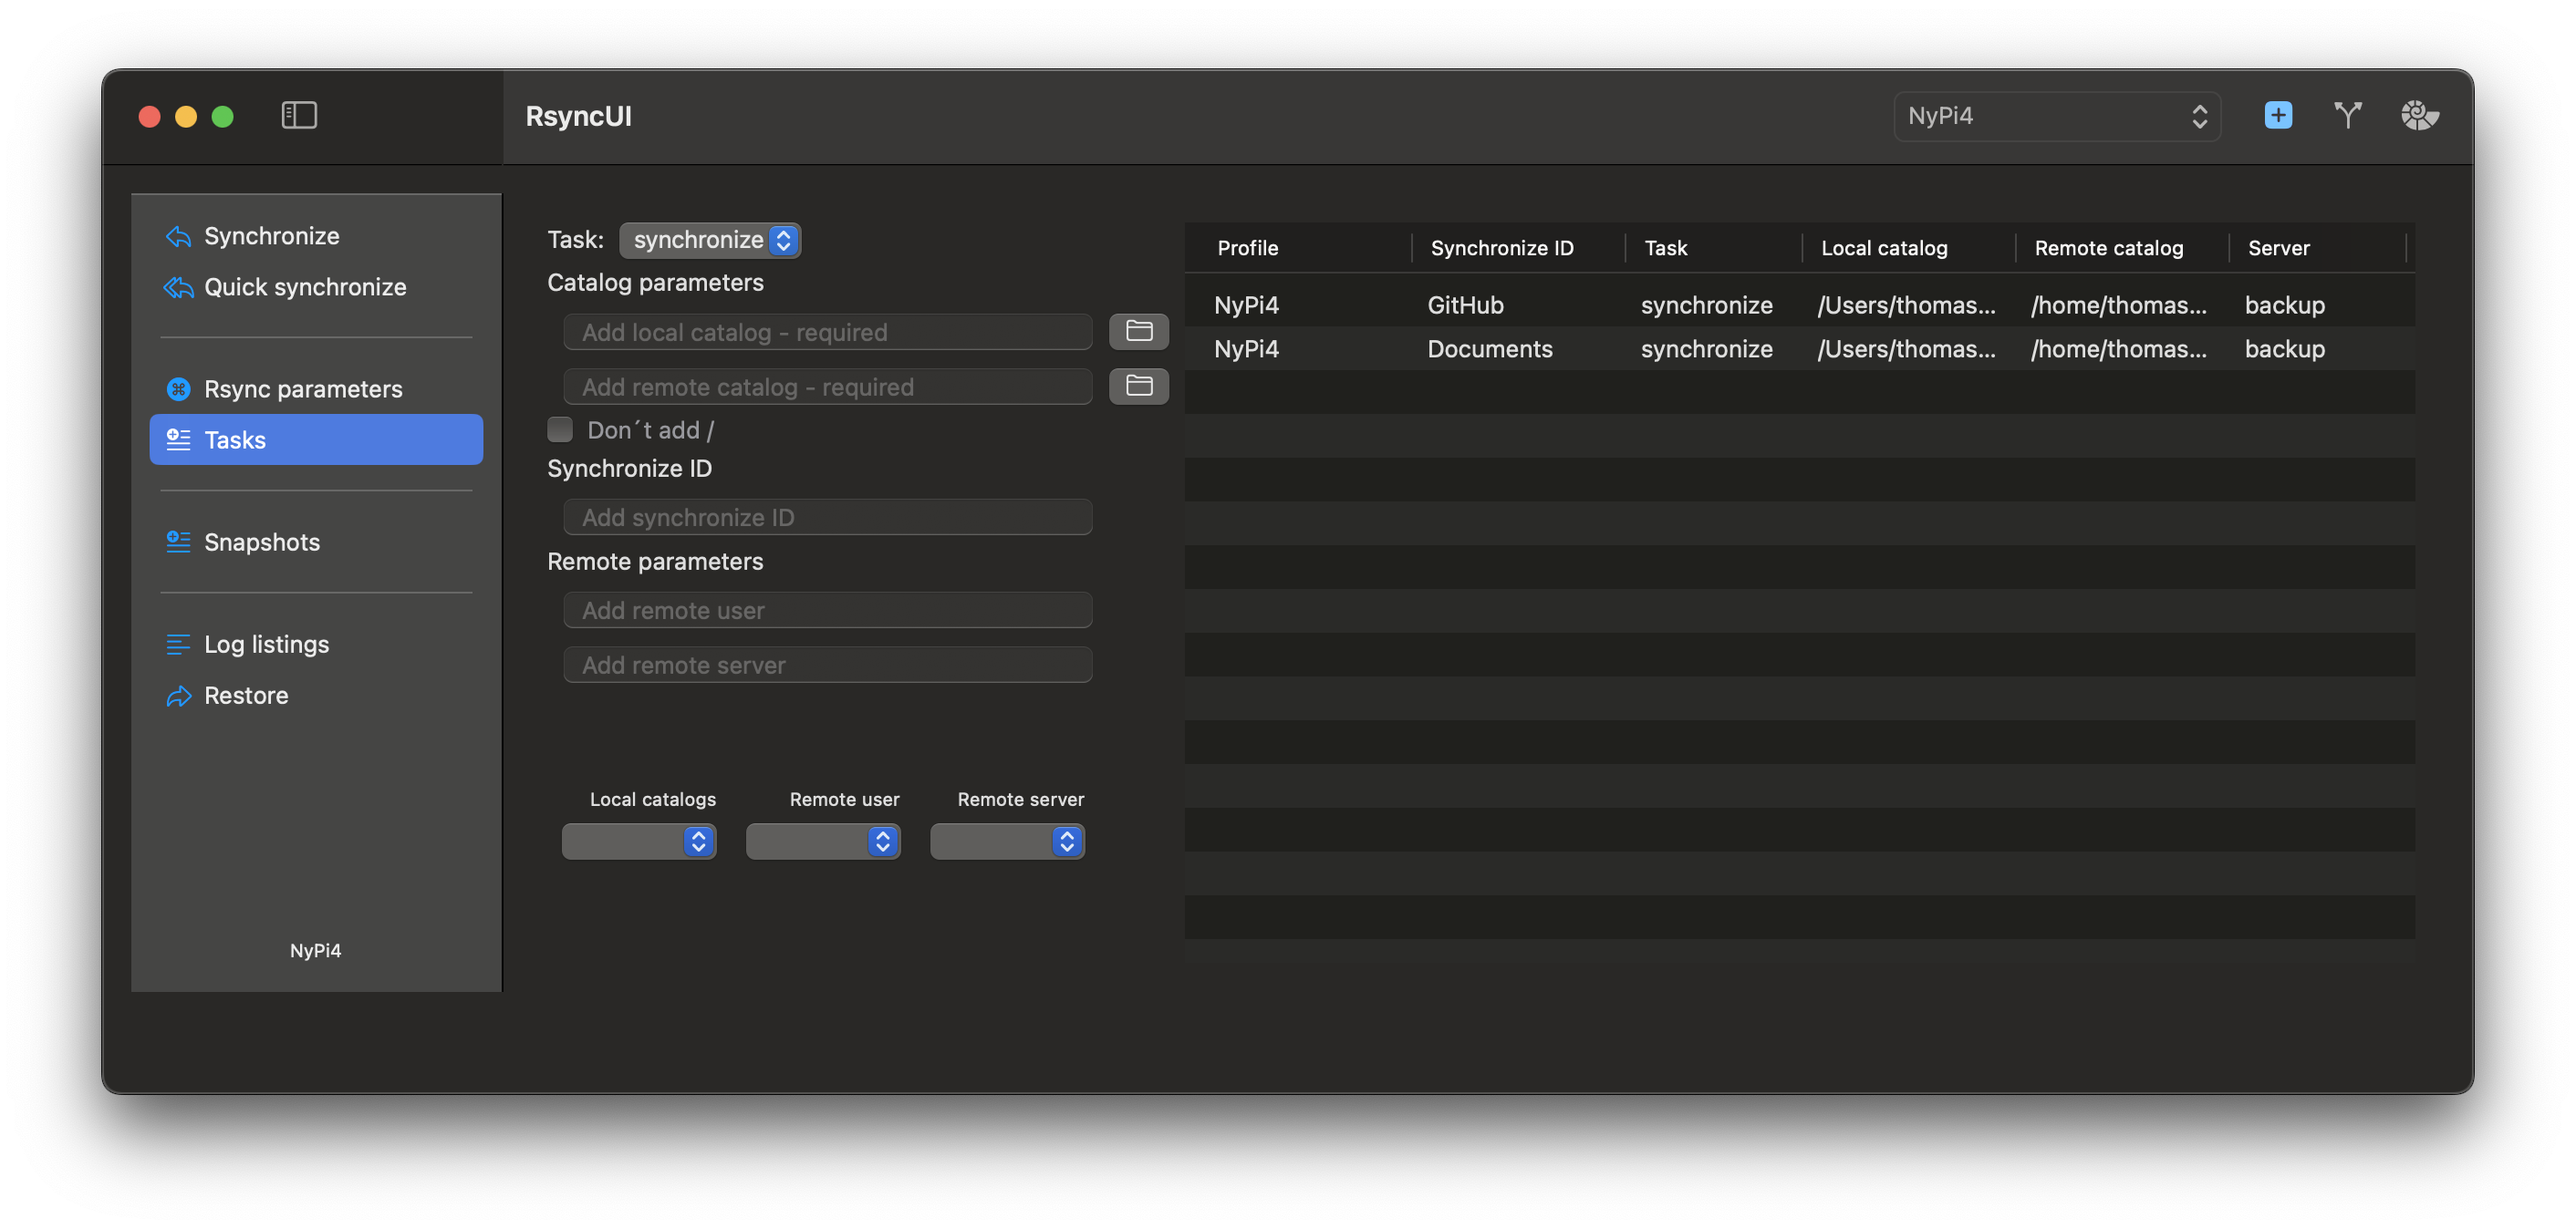
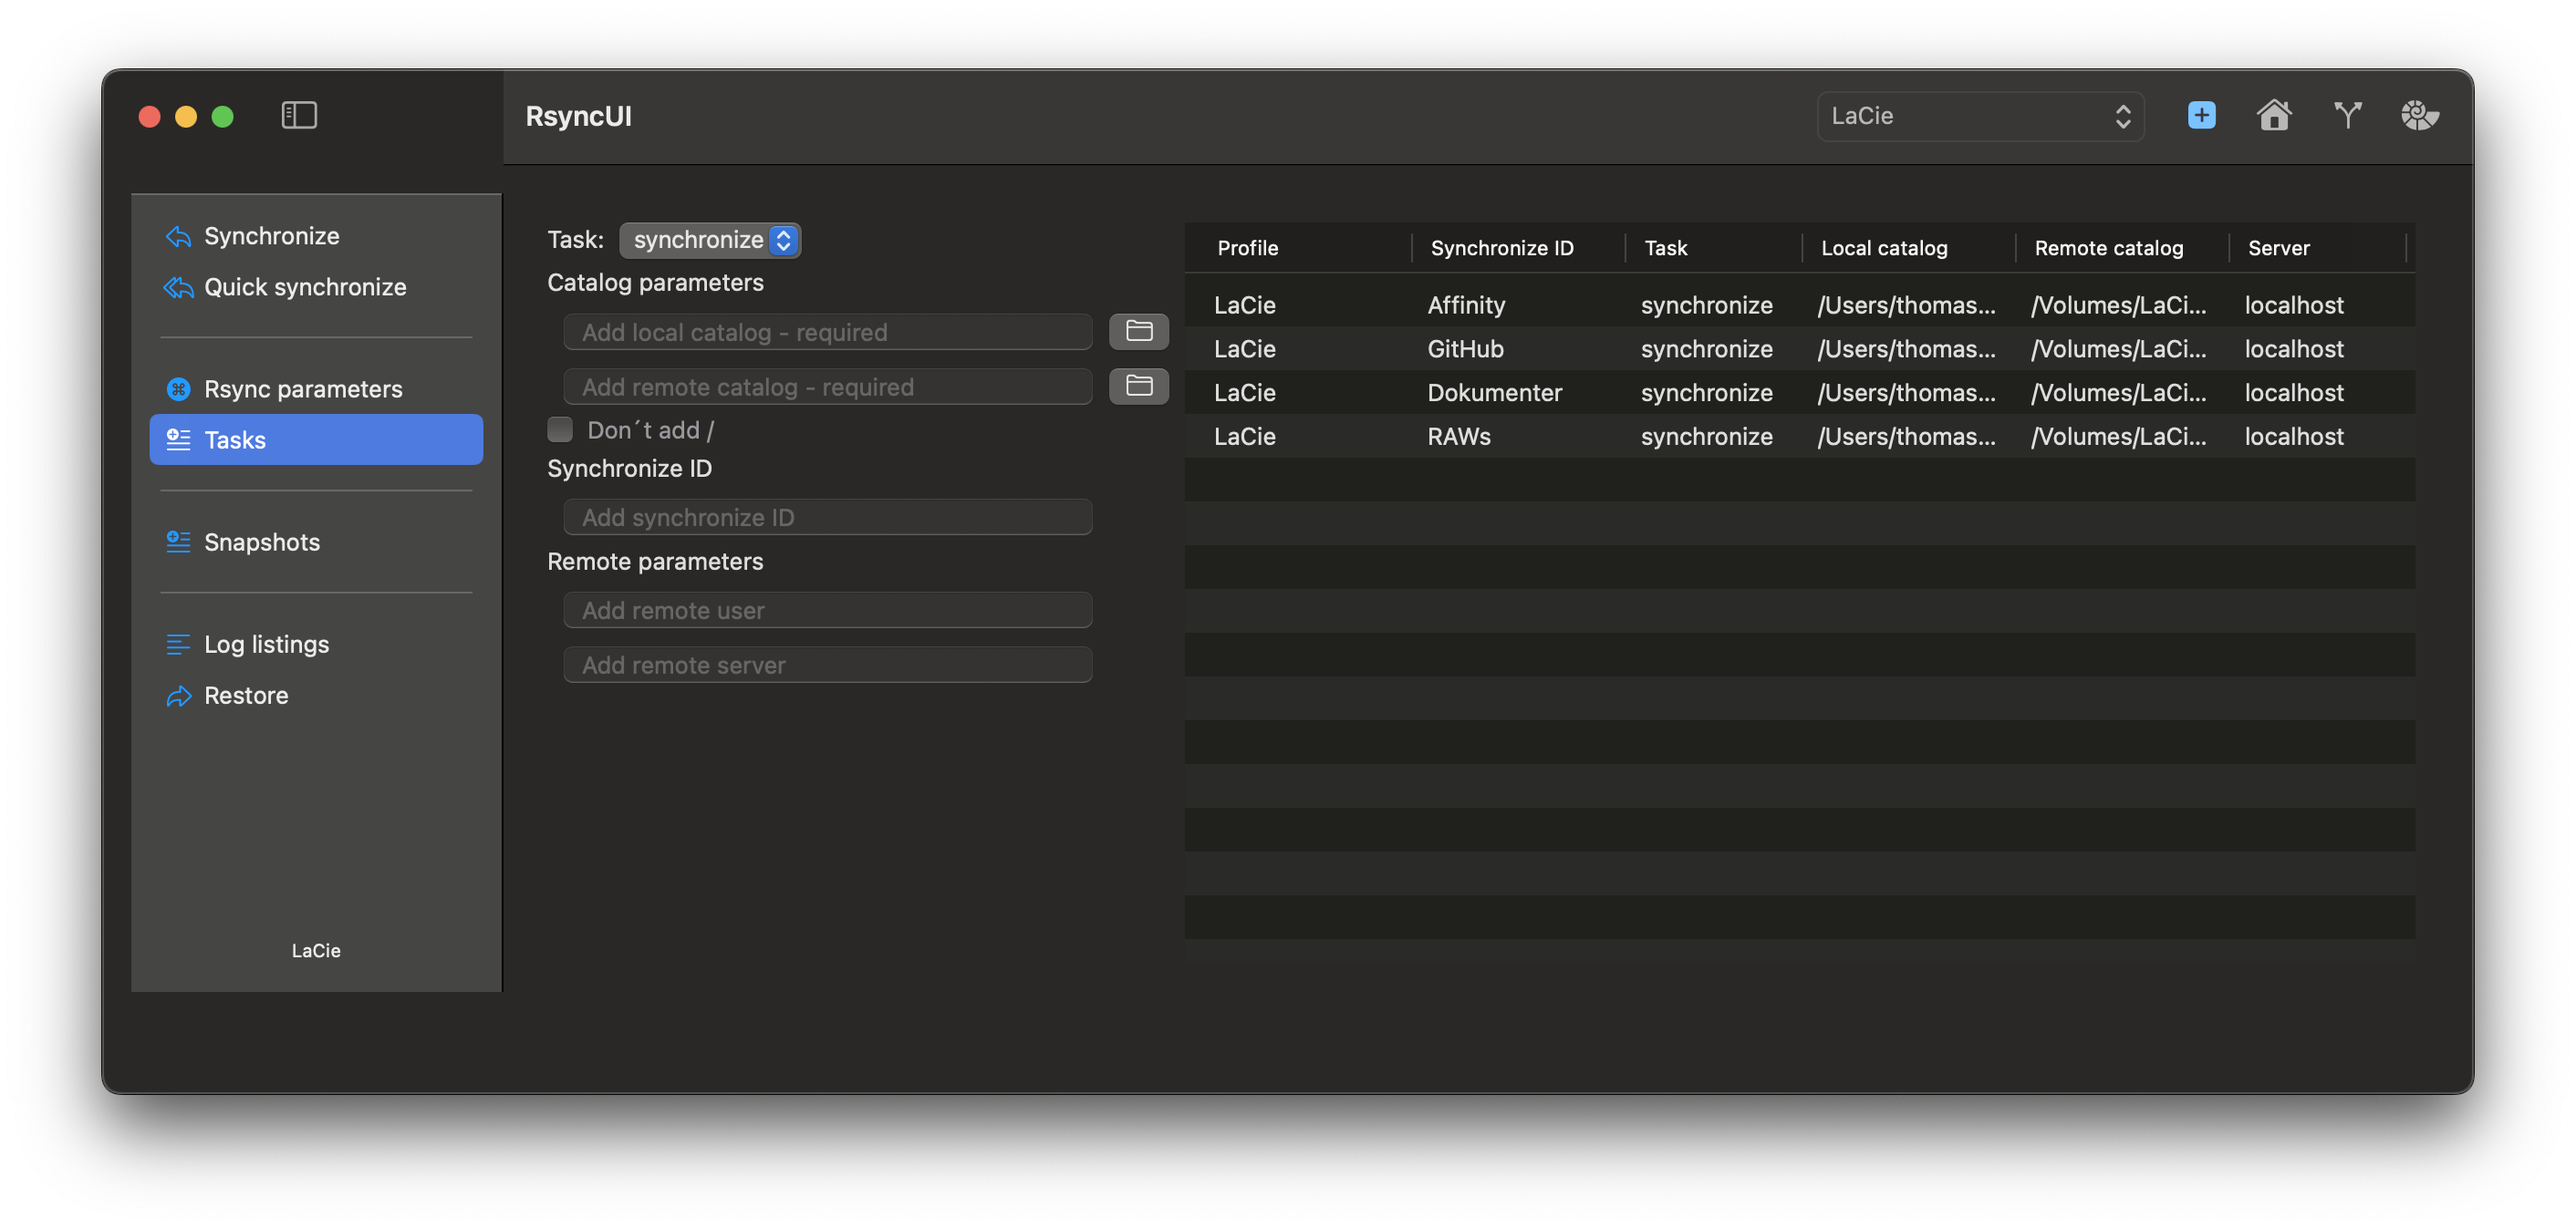
Update

diff --git a/content/post/AddConfigurations.md b/content/post/AddConfigurations.md
@@ -27,12 +27,6 @@ Select tasks to be deleted and delete from the Edit menu or the `backspace` butt
 
 {{< figure src="/images/add/delete.png" alt="" position="center" style="border-radius: 8px;" >}}
 
-## Profiles
-
-Either add or delete profiles. A profile is only a catalog where data about tasks are saved. See tag about `config-file` where RsyncUI stores files.
-
-{{< figure src="/images/add/profiles.png" alt="" position="center" style="border-radius: 8px;" >}}
-
 ## Data about tasks
 
 The following are data about tasks:
@@ -60,6 +54,19 @@ The following are data about tasks:
   - username for login to remote server
 - Remote server:
   - either server name or IP-address for remote server
+  
+## Catalogs
+
+Selecting the `Home` icon lists all catalogs from your `$Home`. If there is attached a local disk, the first name of volume is automatically copied to the destination.
+
+{{< figure src="/images/add/homecatalogs.png" alt="" position="center" style="border-radius: 8px;" >}}
+{{< figure src="/images/add/volumes.png" alt="" position="center" style="border-radius: 8px;" >}}
+
+## Profiles
+
+Either add or delete profiles. A profile is only a catalog where data about tasks are saved. See tag about `config-file` where RsyncUI stores files.
+
+{{< figure src="/images/add/profiles.png" alt="" position="center" style="border-radius: 8px;" >}}
   
 ## Shell commands
 

diff --git a/content/post/Changelog.md b/content/post/Changelog.md
@@ -14,6 +14,7 @@ To be released sometime in January 2024. The documentation is updated with  scre
 
 There are a few more minor GUI enhancements and tweaks. And cleaning of code, remove unused code and updates where needed. If you miss some functions please drop me an email: thomeven@gmail.com or create an Issue on GitHub. All suggestions about enhancements are welcome.
 
+- the adding tasks includes a list of all catalogs from your `$Home` catalog, if there is attached a drive the volume name is automatically copied to destination
 - a new confirm dialog if number of files to synchronize is like a new task
 	- sometimes a remote server or local disk is unavailable, if you commence a synchronize task unaware of destination resource is not available, rsync might believe this is a new full synchronize and a dialog confirms synchronize or abort
 	- the feature to be switch on off in usersettings
